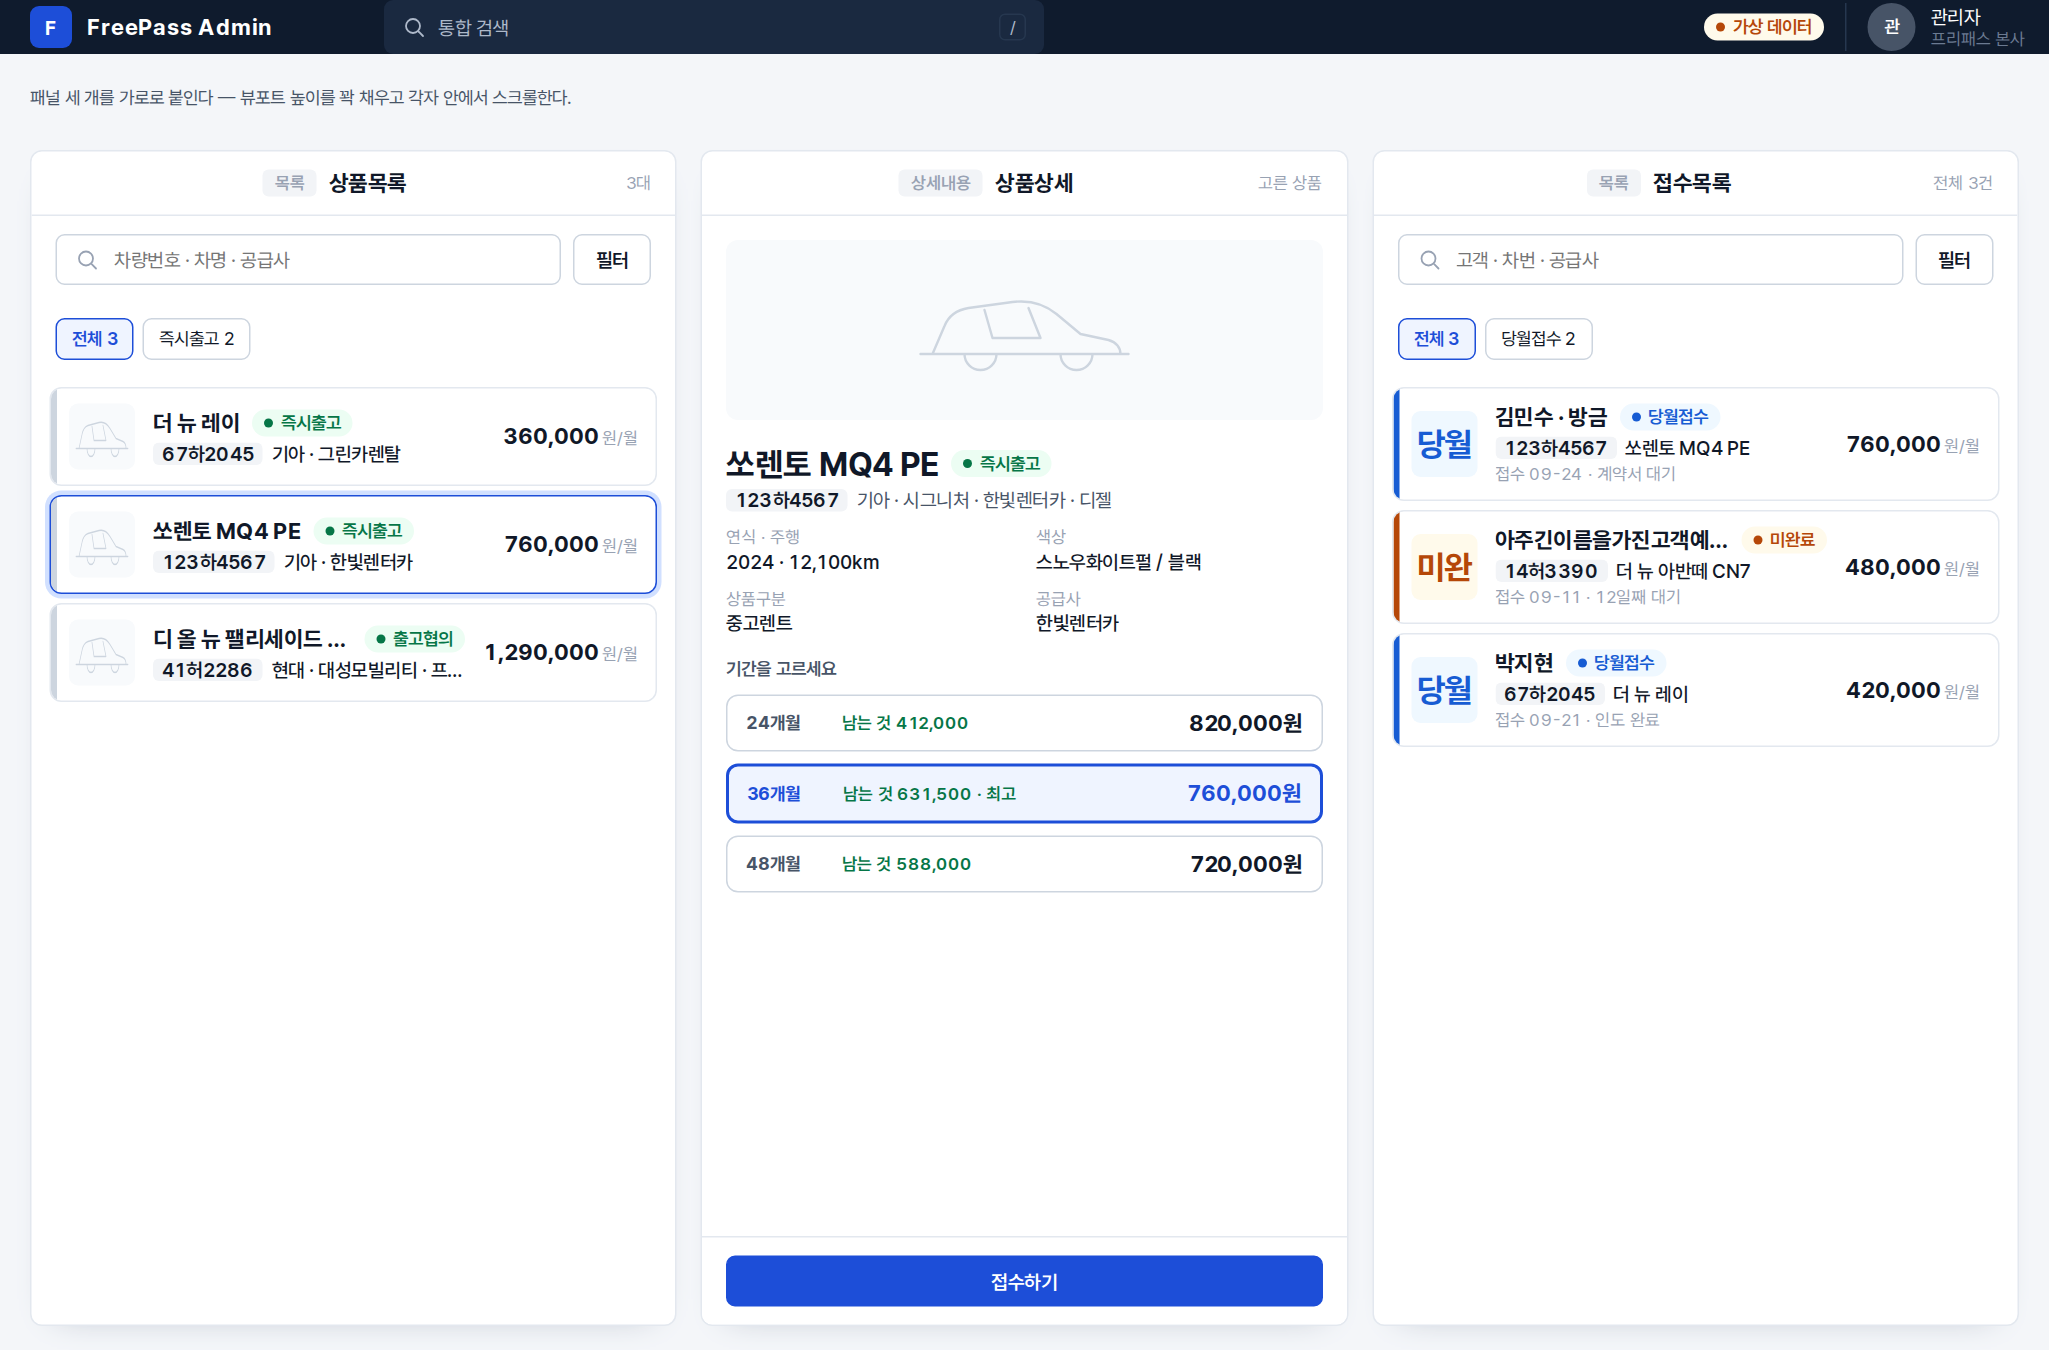
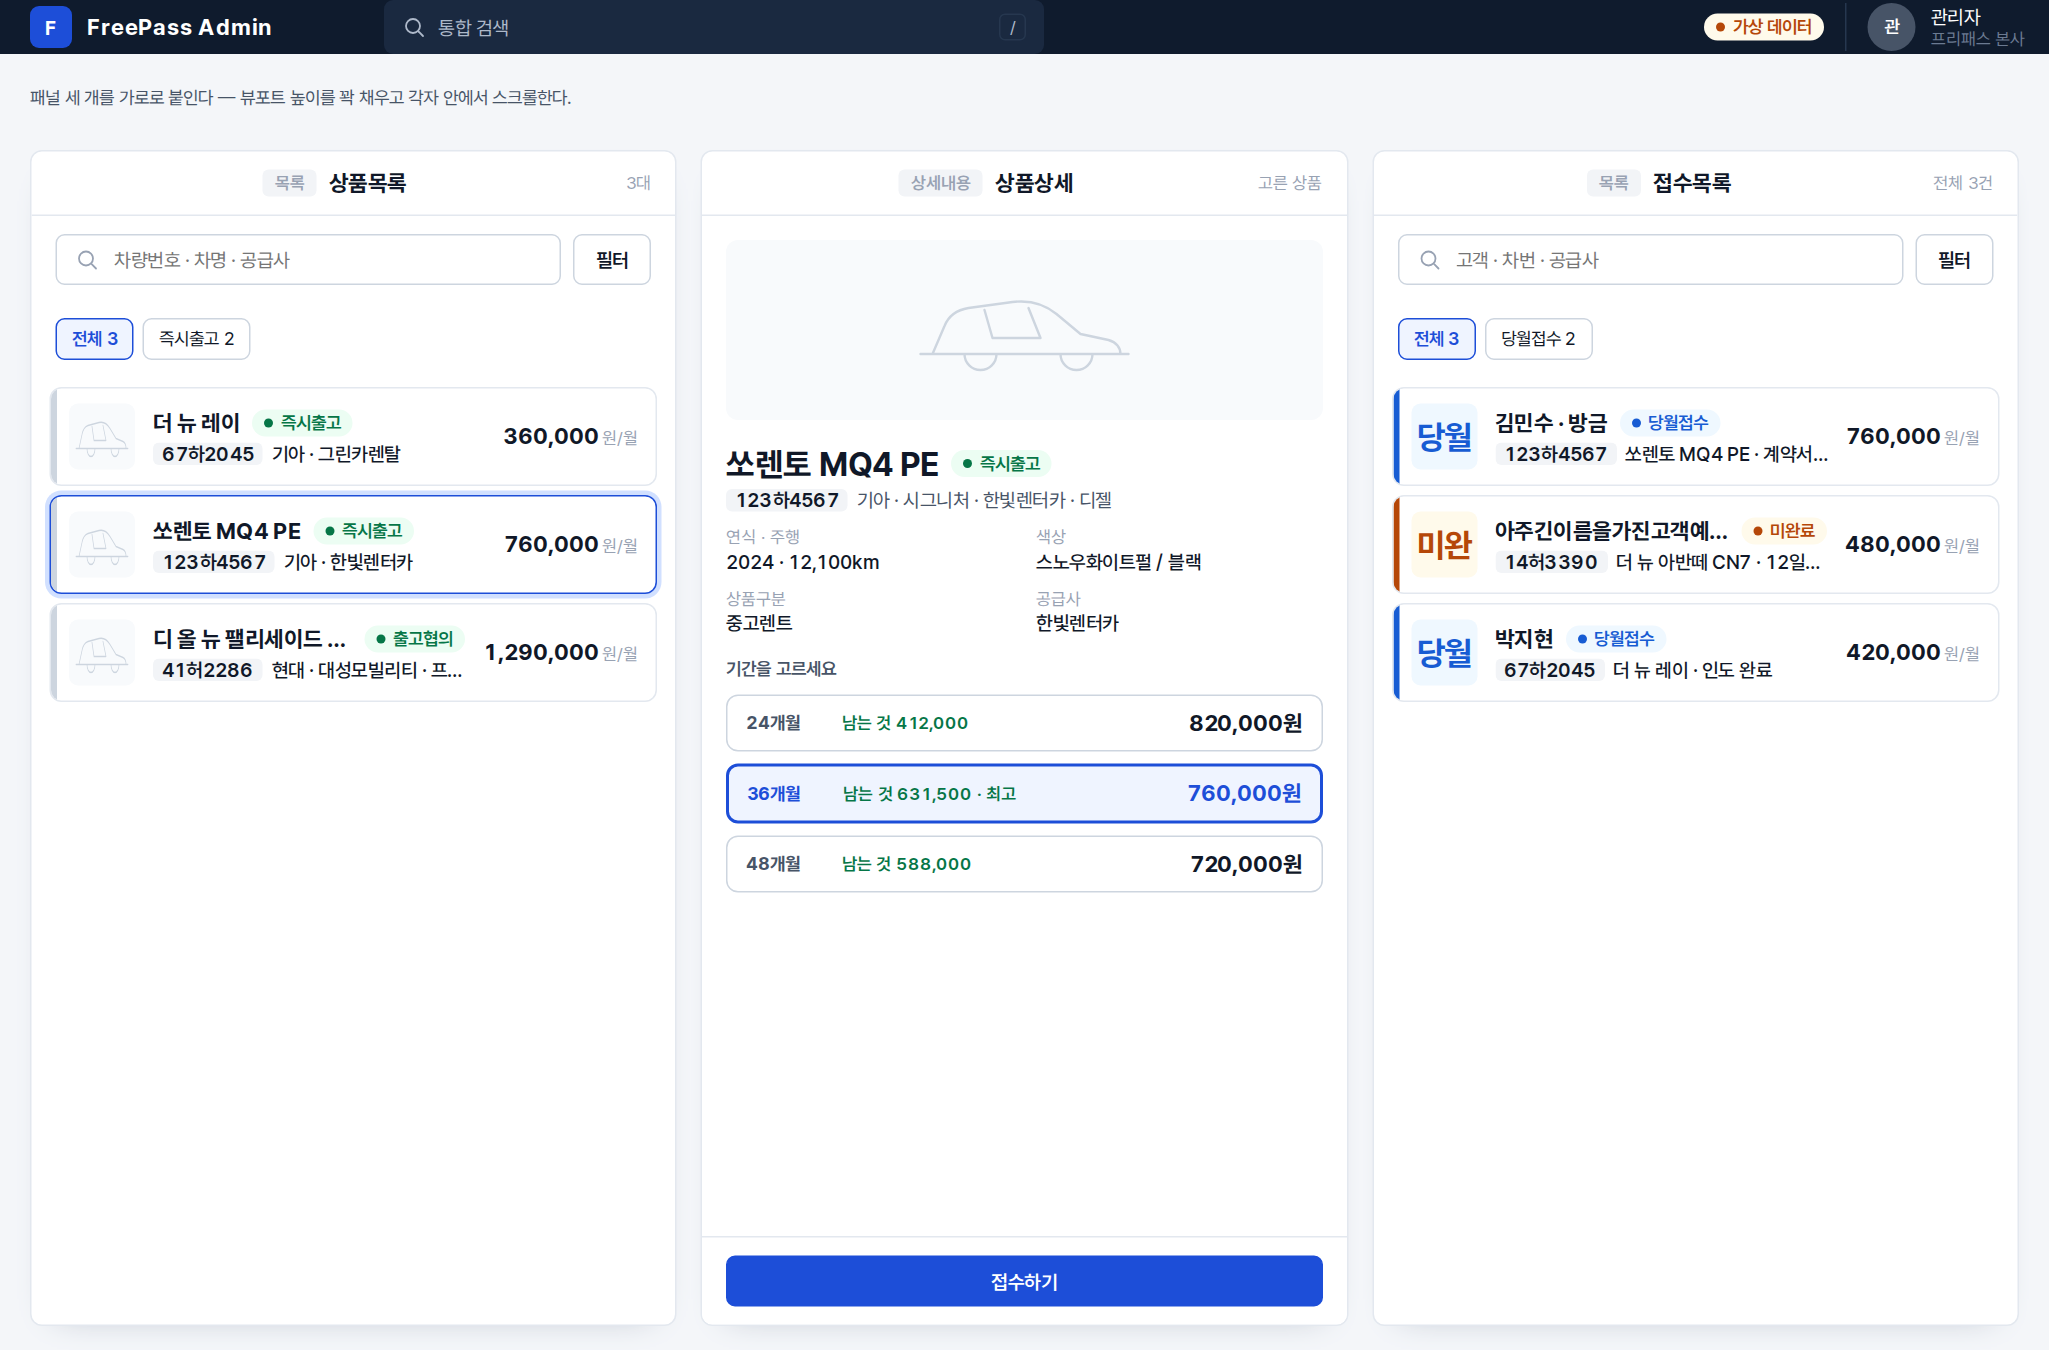
접수 카드를 진짜 두 줄로 — 메타 줄을 차량 줄에 병합
대표 지시 「목록 카드는 그냥 두 줄이면 다 표현이 될것 같은데 … 두 줄에
표현할 거를 최대한 표현」 반영. 두 줄로 통일했다고 문서에는 적었지만
실제로는 접수 카드가 제목줄 + 차량줄 + 메타줄(접수일 · 상태상세)로 세 줄
이었다. 차량 정보 뒤에 상태 상세(계약서 대기 · 12일째 대기 · 인도 완료)를
이어 붙이고 접수일은 뺐다(뱃지 · 진행 단계로 이미 상태를 아니까). 길어지면
기존 말줄임 처리로 자동으로 잘린다. 이제 모든 대상이 정확히 두 줄이다.

Claude-Session: https://claude.ai/code/session_01VHqvSXhUy82o1cFFrYMP3F

Changed region(s): [[0.6872, 0.28, 0.9683, 0.56], [0.9058, 0.4667, 0.9683, 0.5289], [0.6559, 0.4356, 0.6872, 0.4667]]

diff --git a/design/erp-standard/reference/side-by-side.html b/design/erp-standard/reference/side-by-side.html
@@ -77,19 +77,19 @@
     <div class="erp-toolbar" data-region="grid-toolbar"><div class="erp-facet-opts" role="group" aria-label="퀵 필터"><button class="erp-facet-opt" type="button" aria-pressed="true">전체 3</button><button class="erp-facet-opt" type="button" aria-pressed="false">당월접수 2</button></div></div>
     <div class="erp-panel-body"><div class="erp-rowcards"><article class="erp-rowcard" data-tone="info">
     <div class="erp-rowcard-thumb">당월</div>
-    <div class="erp-rowcard-id"><h3 class="erp-rowcard-title"><a class="erp-rowcard-link" href="#">김민수 · 방금</a><span class="erp-badge erp-badge--info">당월접수</span></h3><div class="erp-rowcard-car"><b>123하4567</b>쏘렌토 MQ4 PE</div><div class="erp-rowcard-meta">접수 09-24 · 계약서 대기</div></div>
+    <div class="erp-rowcard-id"><h3 class="erp-rowcard-title"><a class="erp-rowcard-link" href="#">김민수 · 방금</a><span class="erp-badge erp-badge--info">당월접수</span></h3><div class="erp-rowcard-car"><b>123하4567</b>쏘렌토 MQ4 PE · 계약서 대기</div></div>
     <ol class="erp-rowcard-steps" aria-label="진행"><li data-state="done"><i></i>접수</li><li aria-current="step"><i></i>계약서</li><li><i></i>인도</li><li><i></i>청구</li><li><i></i>수금·지급</li></ol>
     <dl class="erp-rowcard-facts"><div><dt>공급사</dt><dd>한빛렌터카</dd></div><div><dt>상품·기간</dt><dd>장기렌트 · 36개월</dd></div><div><dt>영업채널</dt><dd>프리패스 직영</dd></div><div><dt>보증금</dt><dd>없음</dd></div></dl>
     <div class="erp-rowcard-amount"><strong>760,000<small>원/월</small></strong></div><svg class="erp-rowcard-go" viewBox="0 0 24 24" aria-hidden="true"><path d="m9 6 6 6-6 6"/></svg>
   </article><article class="erp-rowcard" data-tone="warn">
     <div class="erp-rowcard-thumb">미완</div>
-    <div class="erp-rowcard-id"><h3 class="erp-rowcard-title"><a class="erp-rowcard-link" href="#">아주긴이름을가진고객예시입니다홍길동</a><span class="erp-badge erp-badge--warn">미완료</span></h3><div class="erp-rowcard-car"><b>14허3390</b>더 뉴 아반떼 CN7</div><div class="erp-rowcard-meta">접수 09-11 · 12일째 대기</div></div>
+    <div class="erp-rowcard-id"><h3 class="erp-rowcard-title"><a class="erp-rowcard-link" href="#">아주긴이름을가진고객예시입니다홍길동</a><span class="erp-badge erp-badge--warn">미완료</span></h3><div class="erp-rowcard-car"><b>14허3390</b>더 뉴 아반떼 CN7 · 12일째 대기</div></div>
     <ol class="erp-rowcard-steps" aria-label="진행"><li data-state="done"><i></i>접수</li><li aria-current="step"><i></i>계약서</li><li><i></i>인도</li><li><i></i>청구</li><li><i></i>수금·지급</li></ol>
     <dl class="erp-rowcard-facts"><div><dt>공급사</dt><dd>한빛렌터카</dd></div><div><dt>상품·기간</dt><dd>장기렌트 · 12개월</dd></div><div><dt>영업채널</dt><dd>서울중앙지점</dd></div><div><dt>보증금</dt><dd>없음</dd></div></dl>
     <div class="erp-rowcard-amount"><strong>480,000<small>원/월</small></strong></div><svg class="erp-rowcard-go" viewBox="0 0 24 24" aria-hidden="true"><path d="m9 6 6 6-6 6"/></svg>
   </article><article class="erp-rowcard" data-tone="info">
     <div class="erp-rowcard-thumb">당월</div>
-    <div class="erp-rowcard-id"><h3 class="erp-rowcard-title"><a class="erp-rowcard-link" href="#">박지현</a><span class="erp-badge erp-badge--info">당월접수</span></h3><div class="erp-rowcard-car"><b>67하2045</b>더 뉴 레이</div><div class="erp-rowcard-meta">접수 09-21 · 인도 완료</div></div>
+    <div class="erp-rowcard-id"><h3 class="erp-rowcard-title"><a class="erp-rowcard-link" href="#">박지현</a><span class="erp-badge erp-badge--info">당월접수</span></h3><div class="erp-rowcard-car"><b>67하2045</b>더 뉴 레이 · 인도 완료</div></div>
     <ol class="erp-rowcard-steps" aria-label="진행"><li data-state="done"><i></i>접수</li><li data-state="done"><i></i>계약서</li><li data-state="done"><i></i>인도</li><li aria-current="step"><i></i>청구</li><li><i></i>수금·지급</li></ol>
     <dl class="erp-rowcard-facts"><div><dt>공급사</dt><dd>그린카렌탈</dd></div><div><dt>상품·기간</dt><dd>장기렌트 · 12개월</dd></div><div><dt>영업채널</dt><dd>프리패스 직영</dd></div><div><dt>보증금</dt><dd>없음</dd></div></dl>
     <div class="erp-rowcard-amount"><strong>420,000<small>원/월</small></strong></div><svg class="erp-rowcard-go" viewBox="0 0 24 24" aria-hidden="true"><path d="m9 6 6 6-6 6"/></svg>
